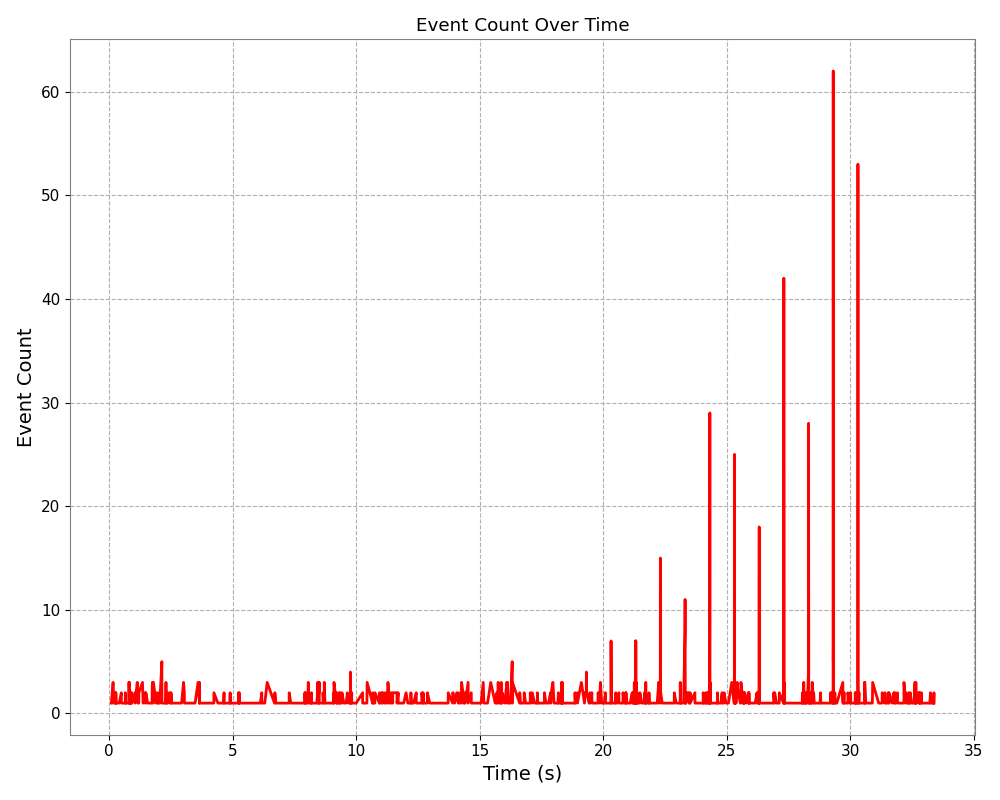
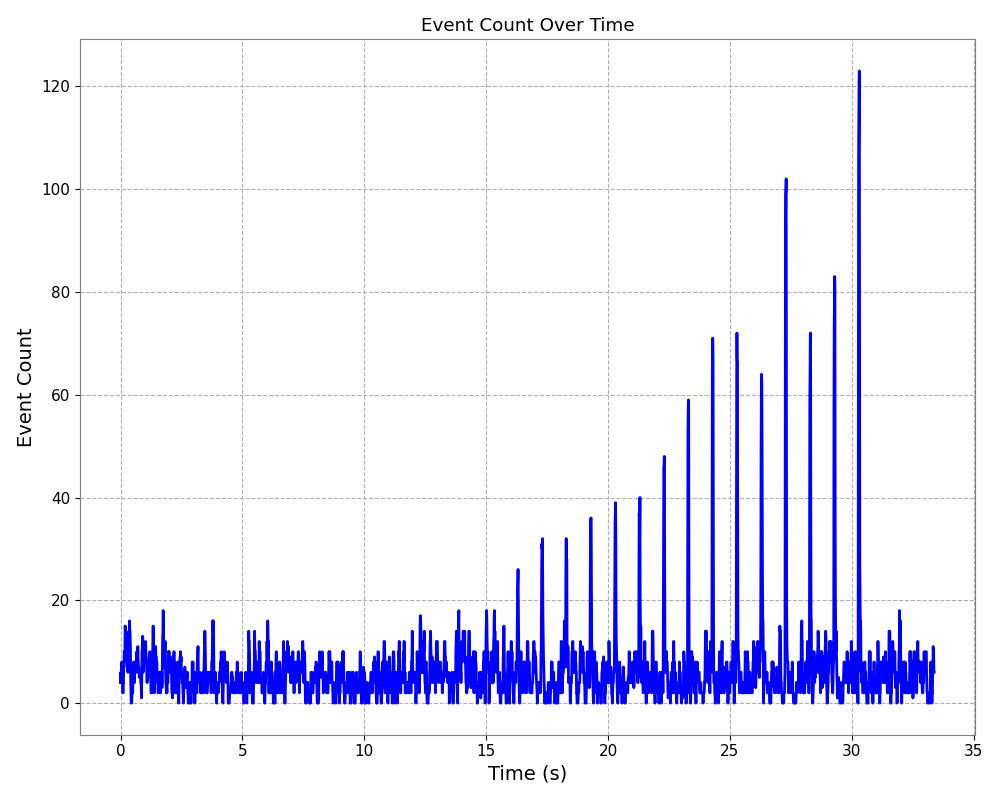
mod

diff --git a/plotEventCount.py b/plotEventCount.py
@@ -9,6 +9,7 @@ import pickle
 import matplotlib.pyplot as plt
 import argparse
 import os
+import numpy as np
 
 plt.rcParams.update({
     'lines.linewidth': 2,
@@ -23,7 +24,7 @@ plt.rcParams.update({
     'figure.figsize': (12, 8),
 })
 
-def plot_event_counts(pkl_file, output_file, time_bin_size=2):
+def plot_event_counts_with_sliding_window(pkl_file, output_file, time_bin_size, step_size):
     with open(pkl_file, 'rb') as f:
         df = pickle.load(f)
 
@@ -33,14 +34,21 @@ def plot_event_counts(pkl_file, output_file, time_bin_size=2):
         df['time'] = pd.to_numeric(df['time'], errors='coerce')
         df = df.dropna(subset=['time'])  # NaN を削除
 
-    df['time_bin'] = (df['time'] // time_bin_size) * time_bin_size
+    # 最大時間を取得
+    max_time = df['time'].max()
 
-    event_counts = df.groupby('time_bin').size()
+    # スライディングウィンドウでイベント数を計算
+    bins = np.arange(0, max_time, step_size)  # スライディングの開始点
+    event_counts = [
+        len(df[(df['time'] >= start) & (df['time'] < start + time_bin_size)])
+        for start in bins
+    ]
 
+    # プロットの作成
     fig = plt.figure(figsize=(10, 8))
     ax = fig.add_subplot(111)
 
-    ax.plot(event_counts.index / 1000, event_counts.values, label='Raw Event Count', color='red')
+    ax.plot(bins / 1000, event_counts, label='Sliding Window Event Count', color='blue')
 
     ax.set_xlabel('Time (s)')
     ax.set_ylabel('Event Count')
@@ -48,15 +56,15 @@ def plot_event_counts(pkl_file, output_file, time_bin_size=2):
 
     ax.grid(True)
     plt.tight_layout()
-
     plt.savefig(output_file)
     plt.close()
     print(f"Plot saved as {output_file}")
 
 if __name__ == "__main__":
-    parser = argparse.ArgumentParser(description="Plot event counts over time from a .pkl file.")
+    parser = argparse.ArgumentParser(description="Plot event counts over time from a .pkl file with sliding window.")
     parser.add_argument('-i', '--input', default='./sampleData/recording_2024-12-10_11-30-57_filtered_results/filtered_events_all.pkl', help="Path to the input .pkl file")
-    parser.add_argument('-b', '--bin_size', type=int, default=2, help="Time bin size in milliseconds (default: 2ms)")
+    parser.add_argument('-b', '--bin_size', type=int, default=50, help="Time bin size in milliseconds (default: 50ms)")
+    parser.add_argument('-s', '--step_size', type=int, default=10, help="Step size for the sliding window in milliseconds (default: 10ms)")
     parser.add_argument('-o', '--output', default='./sampleData/plotEventCount.png', help="Path to save the output image")
 
     args = parser.parse_args()
@@ -64,4 +72,4 @@ if __name__ == "__main__":
     if not os.path.isfile(args.input):
         raise FileNotFoundError(f"The file '{args.input}' does not exist.")
 
-    plot_event_counts(args.input, args.output, args.bin_size)
+    plot_event_counts_with_sliding_window(args.input, args.output, args.bin_size, args.step_size)

diff --git a/plotEventCountAll.py b/plotEventCountAll.py
@@ -1,0 +1,77 @@
+"""
+@author: HAYASHI Yasuhito (dangom_ya)
+
+CopyPolicy: 
+    Released under the terms of the LGPLv2.1 or later.
+"""
+import pandas as pd
+import matplotlib.pyplot as plt
+import argparse
+import os
+
+plt.rcParams.update({
+    'lines.linewidth': 2,
+    'grid.linestyle': '--',
+    'axes.grid': True,
+    'axes.facecolor': 'white',
+    'axes.edgecolor': 'gray',
+    'font.size': 11,
+    'axes.labelsize': 14,
+    'xtick.labelsize': 11,
+    'ytick.labelsize': 11,
+    'figure.figsize': (12, 8),
+})
+
+def downsample_events(data, sampling_ratio):
+    """
+    指定されたサンプリング比率でイベントを間引く
+    """
+    return data.iloc[::sampling_ratio]
+
+def plot_event_counts(file_path, output_file, time_bin_size, sampling_ratio):
+    """
+    CSVファイルを読み込み、時間ごとのイベント数をプロット
+
+    Args:
+        file_path: CSVファイルのパス
+        output_file: 出力画像ファイルのパス
+        time_bin_size: 時間ビンのサイズ（ミリ秒単位）
+        sampling_ratio: サンプリング比率
+    """
+    # データの読み込み
+    data = pd.read_csv(file_path, header=None, names=['x', 'y', 'polarity', 'time'])
+    data['time'] = data['time'] * 1e-3  # マイクロ秒をミリ秒に変換
+
+    # サンプリングの適用
+    data = downsample_events(data, sampling_ratio)
+
+    # 時間ビンごとにイベント数を集計
+    data['time_bin'] = (data['time'] // time_bin_size) * time_bin_size
+    event_counts = data.groupby('time_bin').size()
+
+    # プロットの作成
+    fig, ax = plt.subplots(figsize=(10, 8))
+    ax.plot(event_counts.index / 1000, event_counts.values, label='Event Count', color='blue')
+
+    ax.set_xlabel('Time (s)')
+    ax.set_ylabel('Event Count')
+    ax.set_title('Event Count Over Time')
+
+    ax.grid(True)
+    plt.tight_layout()
+    plt.savefig(output_file)
+    plt.close()
+    print(f"Plot saved as {output_file}")
+
+if __name__ == "__main__":
+    parser = argparse.ArgumentParser(description="Plot event counts over time from a CSV file with optional downsampling.")
+    parser.add_argument('-i', '--input', default='./sampleData/recording_2024-12-10_11-30-57.csv', help="Path to the input CSV file")
+    parser.add_argument('-b', '--bin_size', type=int, default=2, help="Time bin size in milliseconds (default: 2ms)")
+    parser.add_argument('-o', '--output', default='./sampleData/plotEventCount.png', help="Path to save the output image")
+    parser.add_argument('-r', '--sampling_ratio', type=int, default=10, help="Sampling ratio for downsampling events (default: 10)")
+    args = parser.parse_args()
+
+    if not os.path.isfile(args.input):
+        raise FileNotFoundError(f"The file '{args.input}' does not exist.")
+
+    plot_event_counts(args.input, args.output, args.bin_size, args.sampling_ratio)
